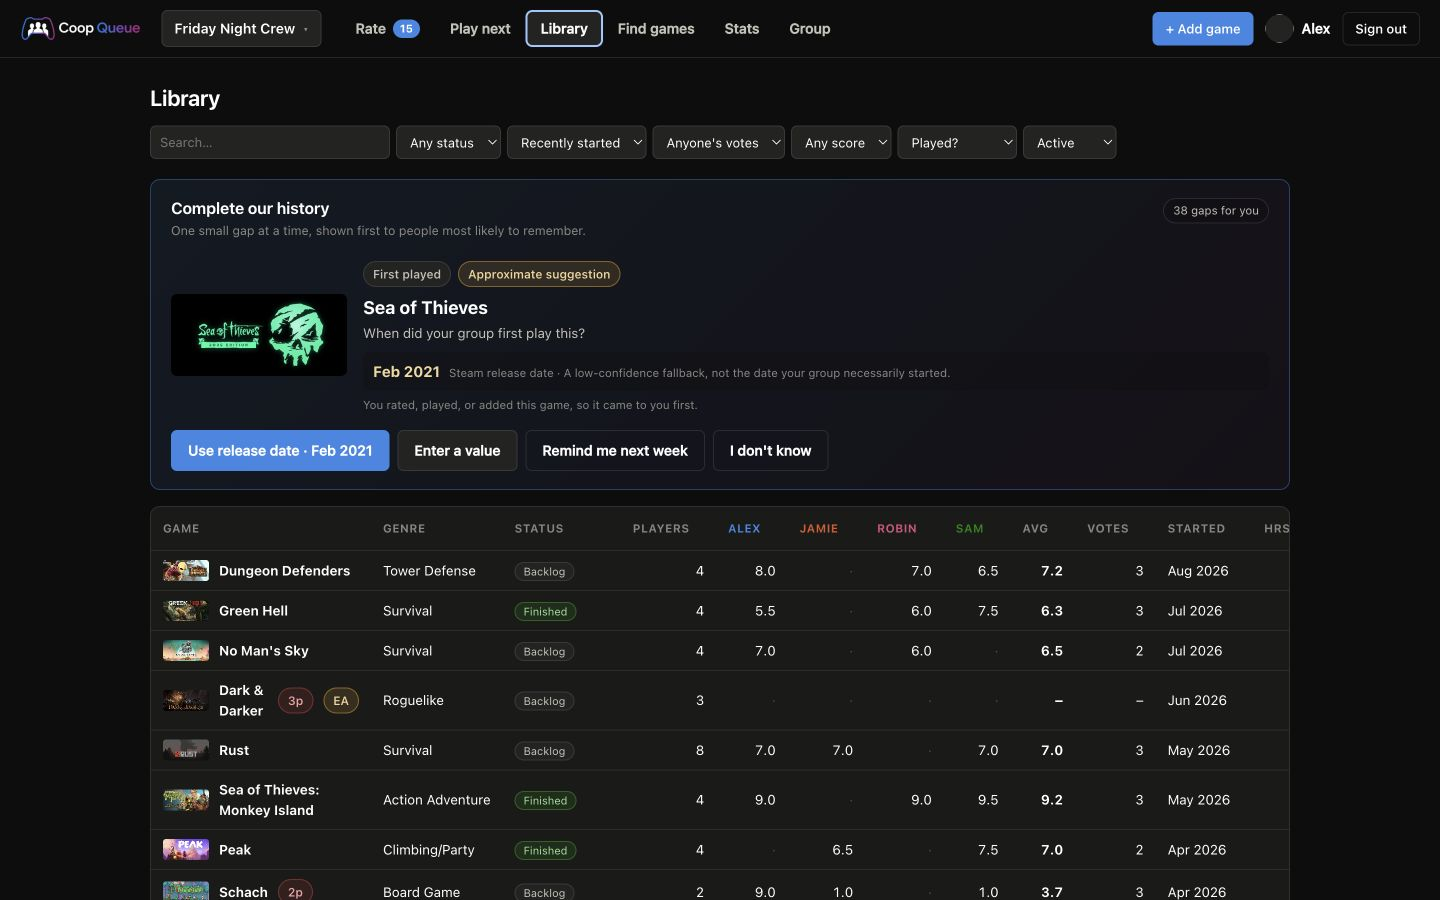
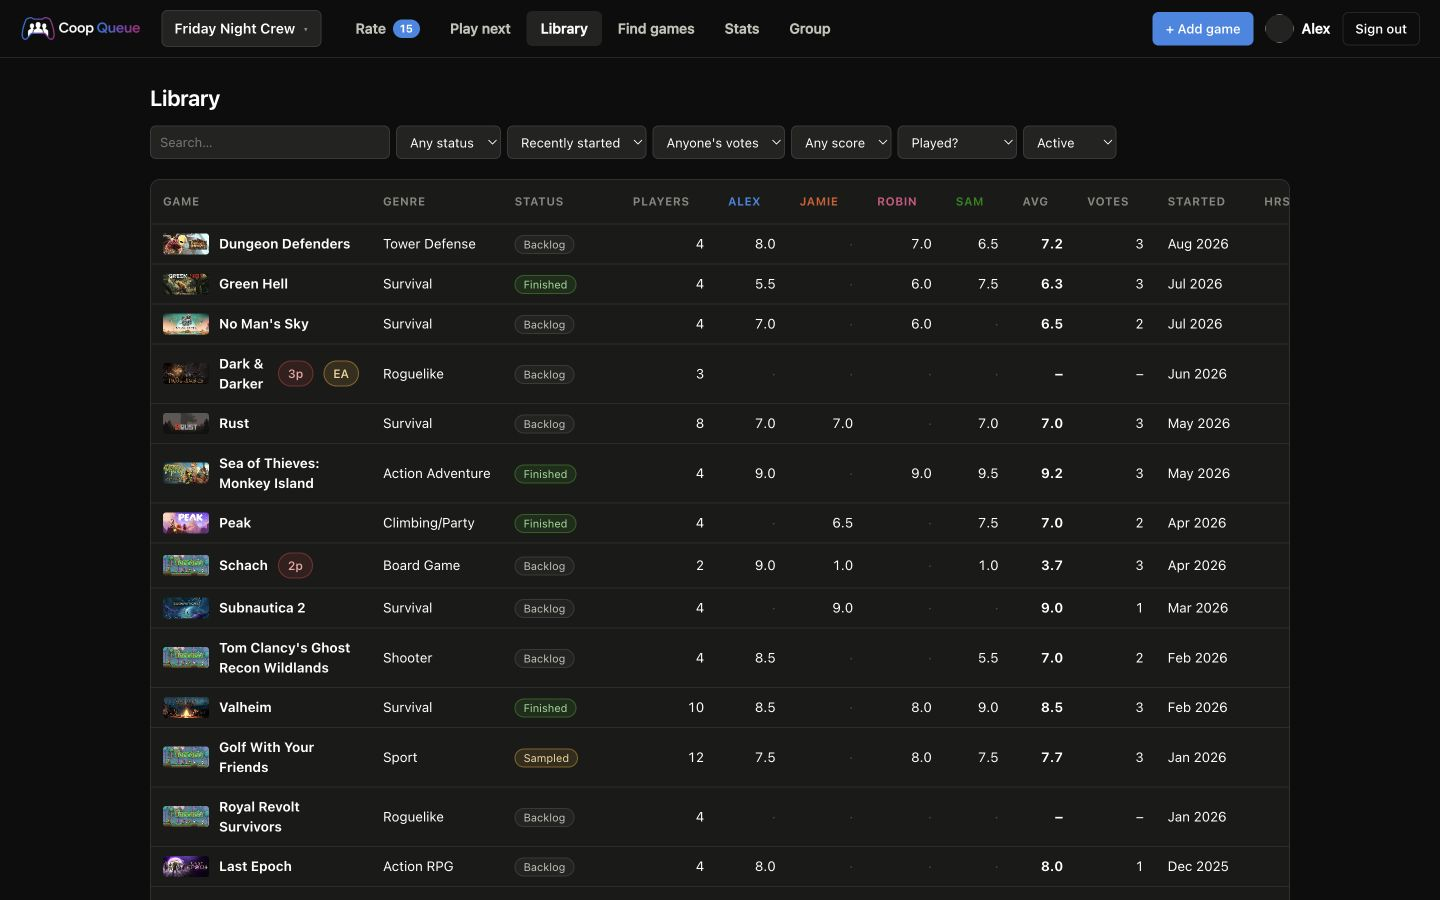
Showcase every product screenshot
Lead with the cleaner Library view, expose all three screenshots as accessible manual previews, and compact the Stats overview so its more informative charts fill the first viewport. Refresh the publishable Library and Stats captures to match.

diff --git a/public/index.html b/public/index.html
@@ -55,14 +55,69 @@
     <p id="landing-error" class="gate-error" hidden></p>
   </div>
 
-  <figure class="landing-shot landing-shot-main">
-    <picture>
-      <source srcset="/screenshots/play-next.webp" type="image/webp">
-      <img src="/screenshots/play-next.jpg" width="1440" height="900" loading="lazy" decoding="async"
-           alt="Play next ranking for a four-person group, with attendee filters, game artwork, player caps and scores">
-    </picture>
-    <figcaption><strong>Pick tonight's crew.</strong> The backlog re-ranks instantly and checks verified player caps against the people who are actually there.</figcaption>
-  </figure>
+  <div class="landing-showcase" aria-label="CoopQueue screenshots">
+    <div class="landing-shot-picker" aria-label="Choose a screenshot">
+      <button class="landing-shot-choice" type="button" data-showcase-shot="library"
+              aria-controls="landing-shot-library" aria-pressed="true">
+        <picture>
+          <source srcset="/screenshots/library.webp" type="image/webp">
+          <img src="/screenshots/library.jpg" width="1440" height="900" loading="lazy" decoding="async" alt="">
+        </picture>
+        <span><strong>Library</strong><small>Everything in one place</small></span>
+      </button>
+      <button class="landing-shot-choice" type="button" data-showcase-shot="play-next"
+              aria-controls="landing-shot-play-next" aria-pressed="false">
+        <picture>
+          <source srcset="/screenshots/play-next.webp" type="image/webp">
+          <img src="/screenshots/play-next.jpg" width="1440" height="900" loading="lazy" decoding="async" alt="">
+        </picture>
+        <span><strong>Play next</strong><small>A shortlist that fits</small></span>
+      </button>
+      <button class="landing-shot-choice" type="button" data-showcase-shot="stats"
+              aria-controls="landing-shot-stats" aria-pressed="false">
+        <picture>
+          <source srcset="/screenshots/stats.webp" type="image/webp">
+          <img src="/screenshots/stats.jpg" width="1440" height="900" loading="lazy" decoding="async" alt="">
+        </picture>
+        <span><strong>Stats</strong><small>Your group's story</small></span>
+      </button>
+    </div>
+    <div class="landing-shot-stage">
+      <figure class="landing-shot landing-shot-panel" id="landing-shot-library" data-showcase-panel="library">
+        <a href="/screenshots/library.jpg" target="_blank" rel="noopener"
+           aria-label="Open the Library screenshot at full size">
+          <picture>
+            <source srcset="/screenshots/library.webp" type="image/webp">
+            <img src="/screenshots/library.jpg" width="1440" height="900" loading="lazy" decoding="async"
+                 alt="Shared game library with statuses and ratings from four players">
+          </picture>
+        </a>
+        <figcaption><strong>Keep the whole history together.</strong> Games, votes and outcomes stay easy to scan.</figcaption>
+      </figure>
+      <figure class="landing-shot landing-shot-panel" id="landing-shot-play-next" data-showcase-panel="play-next" hidden>
+        <a href="/screenshots/play-next.jpg" target="_blank" rel="noopener"
+           aria-label="Open the Play next screenshot at full size">
+          <picture>
+            <source srcset="/screenshots/play-next.webp" type="image/webp">
+            <img src="/screenshots/play-next.jpg" width="1440" height="900" loading="lazy" decoding="async"
+                 alt="Play next ranking for a four-person group, with attendee filters, game artwork, player caps and scores">
+          </picture>
+        </a>
+        <figcaption><strong>Pick tonight's crew.</strong> The backlog re-ranks instantly and checks verified player caps against the people who are actually there.</figcaption>
+      </figure>
+      <figure class="landing-shot landing-shot-panel" id="landing-shot-stats" data-showcase-panel="stats" hidden>
+        <a href="/screenshots/stats.jpg" target="_blank" rel="noopener"
+           aria-label="Open the Stats screenshot at full size">
+          <picture>
+            <source srcset="/screenshots/stats.webp" type="image/webp">
+            <img src="/screenshots/stats.jpg" width="1440" height="900" loading="lazy" decoding="async"
+                 alt="Group statistics showing tracked games, playtime, ratings, genres and gaming history">
+          </picture>
+        </a>
+        <figcaption><strong>See the history take shape.</strong> Useful group statistics appear as soon as there is enough real data behind them.</figcaption>
+      </figure>
+    </div>
+  </div>
 
   <div class="feature-grid">
     <div class="feature">
@@ -85,25 +140,6 @@
       <p>Per-person taste profiles, genre track records, and a chart of the games you disagreed
          about most violently.</p>
     </div>
-  </div>
-
-  <div class="landing-gallery">
-    <figure class="landing-shot">
-      <picture>
-        <source srcset="/screenshots/library.webp" type="image/webp">
-        <img src="/screenshots/library.jpg" width="1440" height="900" loading="lazy" decoding="async"
-             alt="Shared game library with statuses, ratings from four players and a prompt to complete missing history">
-      </picture>
-      <figcaption><strong>Keep the whole history together.</strong> Games, votes, outcomes and the facts your group still needs to fill in.</figcaption>
-    </figure>
-    <figure class="landing-shot">
-      <picture>
-        <source srcset="/screenshots/stats.webp" type="image/webp">
-        <img src="/screenshots/stats.jpg" width="1440" height="900" loading="lazy" decoding="async"
-             alt="Group statistics showing tracked games, playtime, ratings, library status and genres">
-      </picture>
-      <figcaption><strong>See the history take shape.</strong> Useful group statistics appear as soon as there is enough real data behind them.</figcaption>
-    </figure>
   </div>
 
 </section>
@@ -437,25 +473,13 @@
 
     <section class="view" data-view="stats">
       <div class="tiles" id="stat-tiles"></div>
-      <div class="grid-2 stats-grid">
-        <section class="panel" id="stats-shape">
+      <section class="panel stats-shape-compact" id="stats-shape">
+        <div class="stats-shape-copy">
           <h3 class="panel-title">Library shape</h3>
           <p class="panel-sub">Where the games in this library currently stand.</p>
-          <div id="status-shape"></div>
-        </section>
-        <section class="panel" id="stats-genres">
-          <div class="panel-head">
-            <h3 class="panel-title">Genres</h3>
-            <div class="metric-tabs" id="genre-metrics" aria-label="Genre statistic">
-              <button type="button" data-metric="games" aria-pressed="true">Games</button>
-              <button type="button" data-metric="hours" aria-pressed="false">Hours</button>
-              <button type="button" data-metric="rating" aria-pressed="false">Rating</button>
-            </div>
-          </div>
-          <p class="panel-sub" id="genre-note"></p>
-          <div id="genre-chart" class="bars"></div>
-        </section>
-      </div>
+        </div>
+        <div id="status-shape"></div>
+      </section>
       <div class="grid-2 stats-grid">
         <section class="panel" id="stats-timeline">
           <h3 class="panel-title">Gaming over time</h3>
@@ -470,12 +494,26 @@
         </section>
       </div>
       <div class="grid-2 stats-grid">
+        <section class="panel" id="stats-genres">
+          <div class="panel-head">
+            <h3 class="panel-title">Genres</h3>
+            <div class="metric-tabs" id="genre-metrics" aria-label="Genre statistic">
+              <button type="button" data-metric="games" aria-pressed="true">Games</button>
+              <button type="button" data-metric="hours" aria-pressed="false">Hours</button>
+              <button type="button" data-metric="rating" aria-pressed="false">Rating</button>
+            </div>
+          </div>
+          <p class="panel-sub" id="genre-note"></p>
+          <div id="genre-chart" class="bars"></div>
+        </section>
         <section class="panel" id="stats-people">
           <h3 class="panel-title">Who rates how</h3>
           <p class="panel-sub">A 7 from one person is not a 7 from another. Scores are taken at face
             value, so this is context for reading them rather than a correction applied to them.</p>
           <div id="people-list" class="people"></div>
         </section>
+      </div>
+      <div class="grid-2 stats-grid">
         <section class="panel" id="stats-pairs">
           <h3 class="panel-title">Who agrees with whom</h3>
           <p class="panel-sub">Average gap between two people's scores, over the games they have both
@@ -483,8 +521,6 @@
           <div id="twins-summary" class="stat-callouts"></div>
           <div id="pairs-chart" class="bars"></div>
         </section>
-      </div>
-      <div class="grid-2 stats-grid">
         <section class="panel" id="stats-outliers">
           <h3 class="panel-title">Who is out on a limb</h3>
           <p class="panel-sub">How far each person sits from what everyone else said, and the genre
@@ -492,16 +528,17 @@
           <div id="contrarian-chart" class="bars"></div>
           <div id="offbeat-list" class="stat-callouts"></div>
         </section>
+      </div>
+      <div class="grid-2 stats-grid">
         <section class="panel" id="stats-top">
           <h3 class="panel-title">Best games you've played</h3>
           <div id="top-chart" class="bars"></div>
         </section>
+        <section class="panel" id="stats-hours">
+          <h3 class="panel-title">Where the hours went</h3>
+          <div id="hours-chart" class="bars"></div>
+        </section>
       </div>
-
-      <section class="panel" id="stats-hours">
-        <h3 class="panel-title">Where the hours went</h3>
-        <div id="hours-chart" class="bars"></div>
-      </section>
 
       <section class="panel" id="stats-shrugged">
         <h3 class="panel-title">Nobody has an opinion</h3>

diff --git a/public/styles.css b/public/styles.css
@@ -412,6 +412,16 @@ td.miss { color: #4a4a47; }
 .shape-sampled { background: var(--warning); }
 .shape-unfinished, .shape-dropped { background: var(--critical); }
 
+.stats-shape-compact {
+  display: grid; grid-template-columns: minmax(180px,.42fr) minmax(0,1.58fr);
+  align-items: center; gap: 28px; padding-top: 16px; padding-bottom: 16px;
+}
+.stats-shape-compact .panel-title { margin-bottom: 5px; }
+.stats-shape-compact .panel-sub { margin: 0; }
+.stats-shape-compact .shape-legend {
+  grid-template-columns: repeat(3,minmax(0,1fr)); margin-top: 11px;
+}
+
 .timeline-legend { display: flex; gap: 16px; margin-bottom: 9px; font-size: 11.5px; color: var(--text-muted); }
 .timeline-legend span { display: inline-flex; align-items: center; gap: 6px; }
 .timeline-legend i { width: 9px; height: 9px; border-radius: 2px; background: var(--series-1); }
@@ -718,8 +728,11 @@ td.miss { color: #4a4a47; }
 .hero-sub em { color: var(--text-primary); font-style: normal; font-weight: 600; }
 .hero-fine { color: var(--text-muted); font-size: 13px; margin: 14px 0 0; }
 
+.landing-showcase { margin-bottom: 34px; }
 .landing-shot { margin: 0; min-width: 0; }
 .landing-shot picture { display: block; }
+.landing-shot > a { display: block; border-radius: 12px; }
+.landing-shot > a:focus-visible { outline: 3px solid var(--series-1); outline-offset: 4px; }
 .landing-shot img {
   display: block; width: 100%; height: auto; border: 1px solid var(--border);
   border-radius: 12px; background: var(--surface-1);
@@ -729,8 +742,30 @@ td.miss { color: #4a4a47; }
   margin: 12px 4px 0; color: var(--text-secondary); font-size: 13.5px; line-height: 1.5;
 }
 .landing-shot figcaption strong { color: var(--text-primary); }
-.landing-shot-main { margin-bottom: 34px; }
-.landing-shot-main figcaption { text-align: center; }
+.landing-shot-panel figcaption { text-align: center; }
+.landing-shot-picker {
+  display: grid; grid-template-columns: repeat(3,minmax(0,1fr)); gap: 12px;
+  margin-bottom: 18px;
+}
+.landing-shot-choice {
+  min-width: 0; padding: 8px; display: grid; grid-template-columns: minmax(86px,130px) minmax(0,1fr);
+  align-items: center; gap: 12px; text-align: left; color: var(--text-secondary);
+  background: var(--surface-1); border: 1px solid var(--border); border-radius: 10px;
+  font: inherit; cursor: pointer; transition: border-color .12s, background .12s, color .12s;
+}
+.landing-shot-choice:hover { border-color: var(--text-muted); color: var(--text-primary); }
+.landing-shot-choice[aria-pressed="true"] {
+  border-color: var(--series-1); background: rgba(56,139,229,.12); color: var(--text-primary);
+}
+.landing-shot-choice:focus-visible { outline: 2px solid var(--series-1); outline-offset: 2px; }
+.landing-shot-choice picture { display: block; width: 100%; min-width: 0; }
+.landing-shot-choice img {
+  display: block; width: 100%; height: auto; aspect-ratio: 16 / 10; object-fit: cover;
+  border-radius: 6px; border: 1px solid var(--border);
+}
+.landing-shot-choice span { display: grid; gap: 3px; min-width: 0; }
+.landing-shot-choice strong { font-size: 13.5px; }
+.landing-shot-choice small { color: var(--text-muted); font-size: 11.5px; line-height: 1.35; }
 
 .feature-grid {
   display: grid; grid-template-columns: repeat(auto-fit, minmax(240px, 1fr));
@@ -739,16 +774,17 @@ td.miss { color: #4a4a47; }
 .feature { background: var(--surface-1); padding: 24px 22px; }
 .feature h2 { font-size: 15px; margin-bottom: 8px; }
 .feature p { color: var(--text-secondary); font-size: 13.5px; line-height: 1.55; margin: 0; }
-.landing-gallery {
-  display: grid; grid-template-columns: repeat(2, minmax(0,1fr)); gap: 18px;
-  margin-top: 34px;
-}
 .landing-foot { margin-top: 40px; color: var(--text-muted); font-size: 12.5px; text-align: center; }
 
 @media (max-width: 720px) {
-  .landing-shot-main { margin-bottom: 26px; }
-  .landing-shot-main figcaption { text-align: left; }
-  .landing-gallery { grid-template-columns: 1fr; gap: 26px; margin-top: 26px; }
+  .stats-shape-compact { grid-template-columns: 1fr; gap: 12px; }
+  .stats-shape-compact .shape-legend { grid-template-columns: repeat(2,minmax(0,1fr)); }
+  .landing-showcase { margin-bottom: 26px; }
+  .landing-shot-panel figcaption { text-align: left; }
+  .landing-shot-picker { gap: 7px; margin-bottom: 12px; }
+  .landing-shot-choice { display: block; padding: 5px; }
+  .landing-shot-choice span { padding: 7px 3px 3px; }
+  .landing-shot-choice small { display: none; }
 }
 
 /* ═══════════════════════════ onboarding ═════════════════════════════════ */

diff --git a/public/app.js b/public/app.js
@@ -270,9 +270,27 @@ async function boot() {
 
 function showLanding(message) {
   show('landing');
+  wireLandingShowcase();
   const box = $('#landing-error');
   box.hidden = !message;
   if (message) box.textContent = message;
+}
+
+let landingShowcaseWired = false;
+function wireLandingShowcase() {
+  if (landingShowcaseWired) return;
+  landingShowcaseWired = true;
+  $$('.landing-shot-choice').forEach((button) => {
+    button.addEventListener('click', () => {
+      const selected = button.dataset.showcaseShot;
+      $$('.landing-shot-choice').forEach((choice) => {
+        choice.setAttribute('aria-pressed', String(choice === button));
+      });
+      $$('.landing-shot-panel').forEach((panel) => {
+        panel.hidden = panel.dataset.showcasePanel !== selected;
+      });
+    });
+  });
 }
 
 /* ───────────────────────── onboarding: no groups ─────────────────────── */

diff --git a/README.md b/README.md
@@ -21,16 +21,16 @@ does not sleep. Rough headroom is in [Scaling](#scaling-and-what-it-would-cost).
 
 ## See it in action
 
-![Play next ranking with attendee filters, artwork, player caps and group scores](public/screenshots/play-next.webp)
+![Shared library with statuses and ratings from four players](public/screenshots/library.webp)
 
 <table>
   <tr>
     <td width="50%">
-      <img src="public/screenshots/library.webp" alt="Shared library with statuses, member ratings and a missing-history prompt"><br>
-      <strong>One shared history.</strong> Games, votes, outcomes and missing facts stay visible.
+      <img src="public/screenshots/play-next.webp" alt="Play next ranking with attendee filters, artwork, player caps and group scores"><br>
+      <strong>A shortlist that fits.</strong> Choose tonight's crew and the backlog re-ranks immediately.
     </td>
     <td width="50%">
-      <img src="public/screenshots/stats.webp" alt="Group statistics for tracked games, playtime, ratings, statuses and genres"><br>
+      <img src="public/screenshots/stats.webp" alt="Group statistics for tracked games, playtime, ratings, genres and gaming history"><br>
       <strong>Statistics backed by real data.</strong> Empty charts simply stay out of the way.
     </td>
   </tr>
@@ -83,7 +83,7 @@ tab ranks everyone by how much of the library they have scored. Rating coverage
 is the thing that decides whether any of the scoring means anything, so it is
 not hidden in a stats page.
 
-**Stats.** Library status, genres by games / recorded hours / average rating,
+**Stats.** A compact full-width library-status summary, genres by games / recorded hours / average rating,
 yearly starts and finishes, time-versus-rating, per-person baselines, and a dot
 plot of your biggest arguments. Missing hours remain unknown and every history
 chart shows its date coverage. Panels with no underlying data stay hidden.

diff --git a/CLAUDE.md b/CLAUDE.md
@@ -545,7 +545,9 @@ library data; they do not make another metadata request.
 For publishable screenshots, run `MARKETING=1 node test/harness.mjs`. It keeps the
 realistic `g4m1ng` game and rating fixture while replacing group/member display
 names with neutral identities. Linked games derive their header image from their
-real Steam appid; unlinked legacy rows retain the generic fallback. Do not capture
+real Steam appid; unlinked legacy rows retain the generic fallback. It also hides
+the signed-in member's Complete our history prompt so the reusable Library image
+stays focused on the shared data rather than one person's housekeeping. Do not capture
 the production group directly or commit its private comments, invite code, account
 identifiers or avatars.
 
